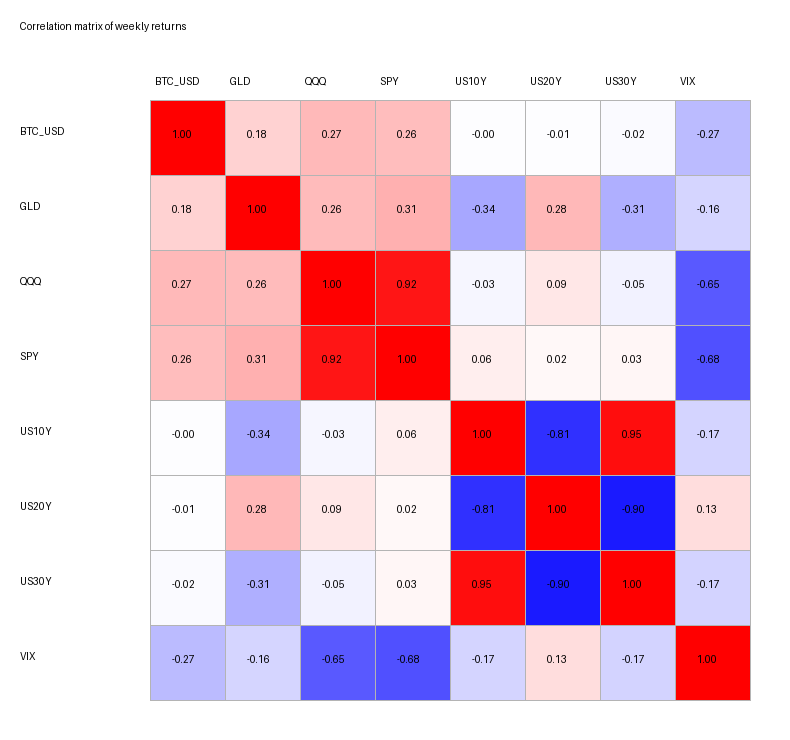
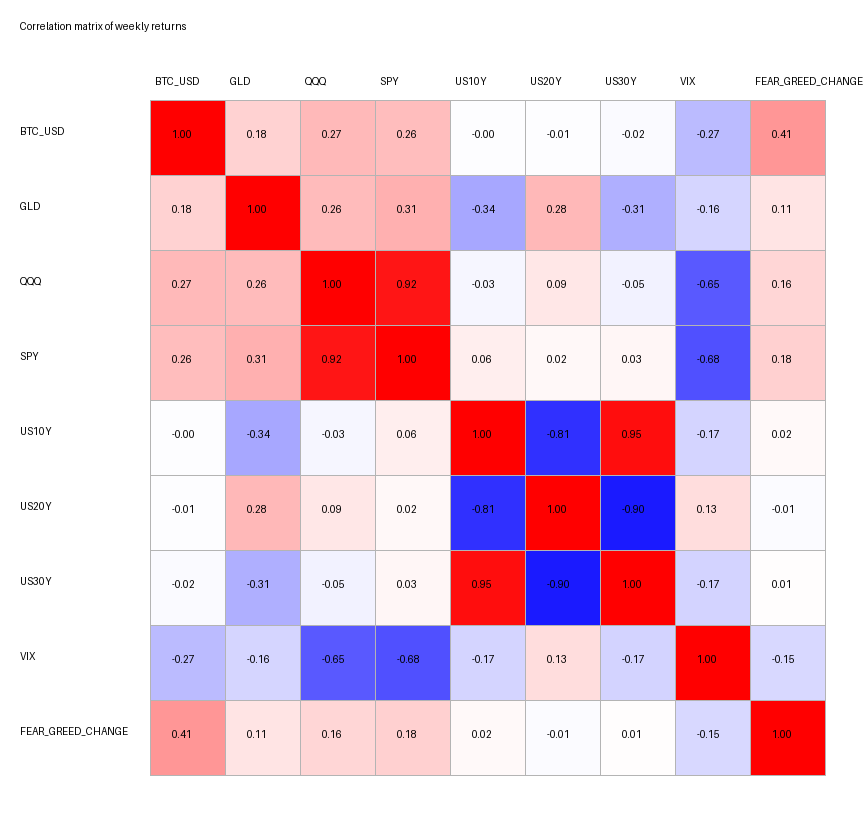
Add data understanding with sentiment analysis

diff --git a/experiment_1/scripts/02_data_understanding/statistics_report.py b/experiment_1/scripts/02_data_understanding/statistics_report.py
@@ -5,6 +5,7 @@ Input files:
 - data/raw/BTC_USD.csv
 - data/raw/STOCKS.csv
 - data/raw/INTEREST.csv
+- data/raw/SENTIMENT.csv
 
 Output files:
 - experiment_1/reports/02_data_understanding_report.md
@@ -28,6 +29,7 @@ INPUT_FILES = {
     "BTC": RAW_DATA_DIR / "BTC_USD.csv",
     "MARKET": RAW_DATA_DIR / "STOCKS.csv",
     "MACRO": RAW_DATA_DIR / "INTEREST.csv",
+    "SENTIMENT": RAW_DATA_DIR / "SENTIMENT.csv",
 }
 
 REPORT_PATH = REPORT_DIR / "02_data_understanding_report.md"
@@ -38,13 +40,42 @@ def load_csv(file_path):
     """Load one CSV file and make sure Date is a datetime column."""
     data = pd.read_csv(file_path)
     data["Date"] = pd.to_datetime(data["Date"])
-    data = data.sort_values(["Symbol", "Date"])
+
+    if "Symbol" in data.columns:
+        data = data.sort_values(["Symbol", "Date"])
+    else:
+        data = data.sort_values("Date")
+
     return data
 
 
 def build_overview(name, data):
-    """Create one overview row for each symbol in one data file."""
+    """Create overview rows for one data file."""
     rows = []
+
+    if "Symbol" not in data.columns:
+        date_diff = data["Date"].diff().dt.days
+        large_gaps = date_diff[date_diff > 10].count()
+
+        rows.append(
+            {
+                "dataset": name,
+                "symbol": "FEAR_GREED",
+                "ticker": "alternative.me",
+                "rows": len(data),
+                "start_date": data["Date"].min().date(),
+                "end_date": data["Date"].max().date(),
+                "missing_values": int(data.isna().sum().sum()),
+                "duplicate_dates": int(data.duplicated(["Date"]).sum()),
+                "large_date_gaps": int(large_gaps),
+                "close_min": data["Fear_Greed_Value"].min(),
+                "close_mean": data["Fear_Greed_Value"].mean(),
+                "close_max": data["Fear_Greed_Value"].max(),
+                "volume_mean": 0,
+            }
+        )
+
+        return rows
 
     for symbol, symbol_data in data.groupby("Symbol"):
         date_diff = symbol_data["Date"].diff().dt.days
@@ -78,12 +109,23 @@ def add_dataset_section(report_lines, name, data):
     report_lines.append(f"- Rows: {len(data)}")
     report_lines.append(f"- Columns: {', '.join(data.columns)}")
     report_lines.append(f"- Date range: {data['Date'].min().date()} to {data['Date'].max().date()}")
-    report_lines.append(f"- Symbols: {', '.join(sorted(data['Symbol'].unique()))}")
+
+    if "Symbol" in data.columns:
+        report_lines.append(f"- Symbols: {', '.join(sorted(data['Symbol'].unique()))}")
+        duplicate_count = int(data.duplicated(["Date", "Symbol"]).sum())
+    else:
+        report_lines.append("- Symbols: FEAR_GREED")
+        duplicate_count = int(data.duplicated(["Date"]).sum())
+
     report_lines.append(f"- Total missing values: {int(data.isna().sum().sum())}")
-    report_lines.append(f"- Duplicate Date/Symbol rows: {int(data.duplicated(['Date', 'Symbol']).sum())}")
+    report_lines.append(f"- Duplicate date rows: {duplicate_count}")
     report_lines.append("")
 
-    important_columns = ["Open", "High", "Low", "Close", "Volume", "VWAP"]
+    if "Fear_Greed_Value" in data.columns:
+        important_columns = ["Fear_Greed_Value"]
+    else:
+        important_columns = ["Open", "High", "Low", "Close", "Volume", "VWAP"]
+
     stats = data[important_columns].describe().round(2)
 
     report_lines.append("### Descriptive statistics")

diff --git a/experiment_1/scripts/02_data_understanding/plotter.py b/experiment_1/scripts/02_data_understanding/plotter.py
@@ -1,18 +1,17 @@
 """
 Data Understanding: plots for raw weekly data
 
-This script uses pandas and Pillow. It avoids complex plotting code so that the
-steps are easy to explain in the presentation.
-
 Input files:
 - data/raw/BTC_USD.csv
 - data/raw/STOCKS.csv
 - data/raw/INTEREST.csv
+- data/raw/SENTIMENT.csv
 
 Output files:
 - experiment_1/images/02_raw_data_overview.png
 - experiment_1/images/02_performance_comparison.png
 - experiment_1/images/02_correlation_matrix.png
+- experiment_1/images/02_sentiment_overview.png
 """
 
 from pathlib import Path
@@ -31,6 +30,7 @@ IMAGE_DIR = EXPERIMENT_DIR / "images"
 BTC_FILE = RAW_DATA_DIR / "BTC_USD.csv"
 STOCKS_FILE = RAW_DATA_DIR / "STOCKS.csv"
 INTEREST_FILE = RAW_DATA_DIR / "INTEREST.csv"
+SENTIMENT_FILE = RAW_DATA_DIR / "SENTIMENT.csv"
 
 COLORS = [
     (30, 30, 30),
@@ -48,7 +48,12 @@ def load_csv(file_path):
     """Load one CSV file and make sure Date is a datetime column."""
     data = pd.read_csv(file_path)
     data["Date"] = pd.to_datetime(data["Date"])
-    data = data.sort_values(["Symbol", "Date"])
+
+    if "Symbol" in data.columns:
+        data = data.sort_values(["Symbol", "Date"])
+    else:
+        data = data.sort_values("Date")
+
     return data
 
 
@@ -199,6 +204,27 @@ def save_performance_comparison(btc_data, stocks_data):
     print(f"Saved: {save_path}")
 
 
+def save_sentiment_overview(sentiment_data):
+    """Save a plot of the Crypto Fear & Greed Index."""
+    sentiment = sentiment_data.set_index("Date")
+
+    image = Image.new("RGB", (1200, 650), "white")
+    draw = ImageDraw.Draw(image)
+    font = ImageFont.load_default()
+
+    draw_line_panel(
+        draw,
+        (20, 20, 1180, 630),
+        "Crypto Fear & Greed Index, weekly average",
+        {"Fear & Greed": sentiment["Fear_Greed_Value"]},
+        font,
+    )
+
+    save_path = IMAGE_DIR / "02_sentiment_overview.png"
+    image.save(save_path)
+    print(f"Saved: {save_path}")
+
+
 def color_for_correlation(value):
     """Return a simple blue-white-red color for a correlation value."""
     value = max(min(value, 1), -1)
@@ -215,16 +241,19 @@ def color_for_correlation(value):
     return red, green, blue
 
 
-def save_correlation_matrix(btc_data, stocks_data, interest_data):
-    """Save a heatmap of weekly return correlations."""
+def save_correlation_matrix(btc_data, stocks_data, interest_data, sentiment_data):
+    """Save a heatmap of weekly returns and sentiment changes."""
     btc_close = close_prices_by_symbol(btc_data)
     stocks_close = close_prices_by_symbol(stocks_data)
     interest_close = close_prices_by_symbol(interest_data)
+    sentiment = sentiment_data.set_index("Date")["Fear_Greed_Value"]
 
     prices = pd.concat([btc_close, stocks_close, interest_close], axis=1)
     prices = prices.dropna()
 
-    returns = prices.pct_change().dropna()
+    returns = prices.pct_change()
+    returns["FEAR_GREED_CHANGE"] = sentiment.diff()
+    returns = returns.dropna()
     corr = returns.corr()
 
     labels = list(corr.columns)
@@ -271,10 +300,12 @@ def main():
     btc_data = load_csv(BTC_FILE)
     stocks_data = load_csv(STOCKS_FILE)
     interest_data = load_csv(INTEREST_FILE)
+    sentiment_data = load_csv(SENTIMENT_FILE)
 
     save_raw_data_overview(btc_data, stocks_data, interest_data)
     save_performance_comparison(btc_data, stocks_data)
-    save_correlation_matrix(btc_data, stocks_data, interest_data)
+    save_sentiment_overview(sentiment_data)
+    save_correlation_matrix(btc_data, stocks_data, interest_data, sentiment_data)
 
     print("Data Understanding plots finished.")
 

diff --git a/experiment_1/reports/02_data_understanding_report.md b/experiment_1/reports/02_data_understanding_report.md
@@ -3,15 +3,16 @@
 ## Overview by symbol
 
 ```text
-dataset  symbol  ticker  rows start_date   end_date  missing_values  duplicate_dates  large_date_gaps  close_min  close_mean  close_max  volume_mean
-    BTC BTC_USD BTC-USD   262 2020-01-03 2025-01-03               0                0                0    5563.71    36472.53  101459.26 2.313645e+11
- MARKET     GLD     GLD   262 2020-01-03 2025-01-03               0                0                0     140.11      181.13     253.32 4.138891e+07
- MARKET     QQQ     QQQ   262 2020-01-03 2025-01-03               0                0                0     170.70      345.43     530.53 2.380664e+08
- MARKET     SPY     SPY   262 2020-01-03 2025-01-03               0                0                0     228.80      425.56     607.81 3.920702e+08
-  MACRO   US10Y    ^TNX   262 2020-01-03 2025-01-03               0                0                0       0.54        2.69       4.92 0.000000e+00
-  MACRO   US20Y     TLT   262 2020-01-03 2025-01-03               0                0                0      83.24      122.84     171.00 1.137476e+08
-  MACRO   US30Y    ^TYX   262 2020-01-03 2025-01-03               0                0                0       1.18        3.05       5.09 0.000000e+00
-  MACRO     VIX    ^VIX   262 2020-01-03 2025-01-03               0                0                0      11.93       21.06      66.04 0.000000e+00
+  dataset     symbol         ticker  rows start_date   end_date  missing_values  duplicate_dates  large_date_gaps  close_min  close_mean  close_max  volume_mean
+      BTC    BTC_USD        BTC-USD   262 2020-01-03 2025-01-03               0                0                0    5563.71    36472.53  101459.26 2.313645e+11
+   MARKET        GLD            GLD   262 2020-01-03 2025-01-03               0                0                0     140.11      181.13     253.32 4.138891e+07
+   MARKET        QQQ            QQQ   262 2020-01-03 2025-01-03               0                0                0     170.70      345.43     530.53 2.380664e+08
+   MARKET        SPY            SPY   262 2020-01-03 2025-01-03               0                0                0     228.80      425.56     607.81 3.920702e+08
+    MACRO      US10Y           ^TNX   262 2020-01-03 2025-01-03               0                0                0       0.54        2.69       4.92 0.000000e+00
+    MACRO      US20Y            TLT   262 2020-01-03 2025-01-03               0                0                0      83.24      122.84     171.00 1.137476e+08
+    MACRO      US30Y           ^TYX   262 2020-01-03 2025-01-03               0                0                0       1.18        3.05       5.09 0.000000e+00
+    MACRO        VIX           ^VIX   262 2020-01-03 2025-01-03               0                0                0      11.93       21.06      66.04 0.000000e+00
+SENTIMENT FEAR_GREED alternative.me   262 2020-01-03 2025-01-03               0                0                0       9.00       50.23      93.43 0.000000e+00
 ```
 
 ## BTC
@@ -21,7 +22,7 @@ dataset  symbol  ticker  rows start_date   end_date  missing_values  duplicate_d
 - Date range: 2020-01-03 to 2025-01-03
 - Symbols: BTC_USD
 - Total missing values: 0
-- Duplicate Date/Symbol rows: 0
+- Duplicate date rows: 0
 
 ### Descriptive statistics
 
@@ -55,7 +56,7 @@ max    101451.44  108268.45  94321.26  101459.26  7.873680e+11  101571.77
 - Date range: 2020-01-03 to 2025-01-03
 - Symbols: GLD, QQQ, SPY
 - Total missing values: 0
-- Duplicate Date/Symbol rows: 0
+- Duplicate date rows: 0
 
 ### Descriptive statistics
 
@@ -89,7 +90,7 @@ max    607.69  609.07  602.34  607.81  1.562964e+09  605.89
 - Date range: 2020-01-03 to 2025-01-03
 - Symbols: US10Y, US20Y, US30Y, VIX
 - Total missing values: 0
-- Duplicate Date/Symbol rows: 0
+- Duplicate date rows: 0
 
 ### Descriptive statistics
 
@@ -114,4 +115,38 @@ max     179.10   179.70   168.98   171.00  3.086069e+08   170.58
 2020-01-17 1.834 1.858 1.780  1.836      1.836       0 1.824667  US10Y   ^TNX
 2020-01-24 1.797 1.797 1.670  1.681      1.681       0 1.716000  US10Y   ^TNX
 2020-01-31 1.612 1.655 1.512  1.520      1.520       0 1.562333  US10Y   ^TNX
+```
+
+## SENTIMENT
+
+- Rows: 262
+- Columns: Date, Fear_Greed_Value, Fear_Greed_Class
+- Date range: 2020-01-03 to 2025-01-03
+- Symbols: FEAR_GREED
+- Total missing values: 0
+- Duplicate date rows: 0
+
+### Descriptive statistics
+
+```text
+       Fear_Greed_Value
+count            262.00
+mean              50.23
+std               21.99
+min                9.00
+25%               30.14
+50%               50.79
+75%               70.71
+max               93.43
+```
+
+### Sample rows
+
+```text
+      Date  Fear_Greed_Value Fear_Greed_Class
[phone redacted]         38.000000             Fear
[phone redacted]         42.000000             Fear
[phone redacted]         51.857143          Neutral
[phone redacted]         48.857143             Fear
[phone redacted]         50.857143            Greed
 ```

diff --git a/experiment_1/README.md b/experiment_1/README.md
@@ -34,6 +34,7 @@ Raw data is stored in `../../data/raw/`.
 | `BTC_USD.csv` | weekly BTC/USD OHLCV and VWAP |
 | `STOCKS.csv` | weekly QQQ, SPY, and GLD data |
 | `INTEREST.csv` | weekly VIX, US10Y, US20Y, and US30Y data |
+| `SENTIMENT.csv` | weekly Crypto Fear & Greed Index data |
 
 The data covers the period from `2020-01-03` to `2025-01-03`.
 Each symbol has 262 weekly observations.
@@ -72,6 +73,7 @@ Outputs:
 - `images/02_raw_data_overview.png`
 - `images/02_performance_comparison.png`
 - `images/02_correlation_matrix.png`
+- `images/02_sentiment_overview.png`
 
 This step covers the data understanding requirements:
 
@@ -91,7 +93,8 @@ This step covers the data understanding requirements:
 5. BTC/USD shows much stronger volatility than QQQ, SPY, and GLD.
 6. BTC weekly returns have a weak positive correlation with QQQ and SPY.
 7. BTC weekly returns have a negative correlation with VIX.
-8. Because absolute price levels are very different, returns and normalized
+8. The Fear & Greed Index gives an additional weekly sentiment signal from 0 to 100.
+9. Because absolute price levels are very different, returns and normalized
    indicators should be used for modelling.
 
 ## How To Run
@@ -117,5 +120,6 @@ Planned tasks:
 - create weekly return features
 - create rolling volatility features
 - create SMA, EMA, RSI, and MACD indicators
+- include Fear & Greed sentiment as an additional feature
 - create the binary target variable for next week
 - save the feature and target dataset in `../../data/processed/`

diff --git a/README.md b/README.md
@@ -60,6 +60,7 @@ predicts whether the BTC price will rise or fall in the next week.
 | Raw | BTC/USD OHLCV, VWAP |
 | Market | QQQ, SPY, GLD |
 | Macro | VIX, US bonds (10Y, 20Y, 30Y) |
+| Sentiment | Crypto Fear & Greed Index |
 | Derived | SMA, EMA, RSI, MACD, volatility |
 
 ## Data Acquisition
@@ -71,6 +72,7 @@ Raw data is downloaded with `yfinance` and stored as CSV files in `data/raw/`.
 | yfinance | weekly BTC/USD OHLCV | `BTC_USD.csv` |
 | yfinance | QQQ, SPY, GLD | `STOCKS.csv` |
 | yfinance | VIX, US10Y, US20Y, US30Y | `INTEREST.csv` |
+| alternative.me | Crypto Fear & Greed Index | `SENTIMENT.csv` |
 
 Parameters:
 